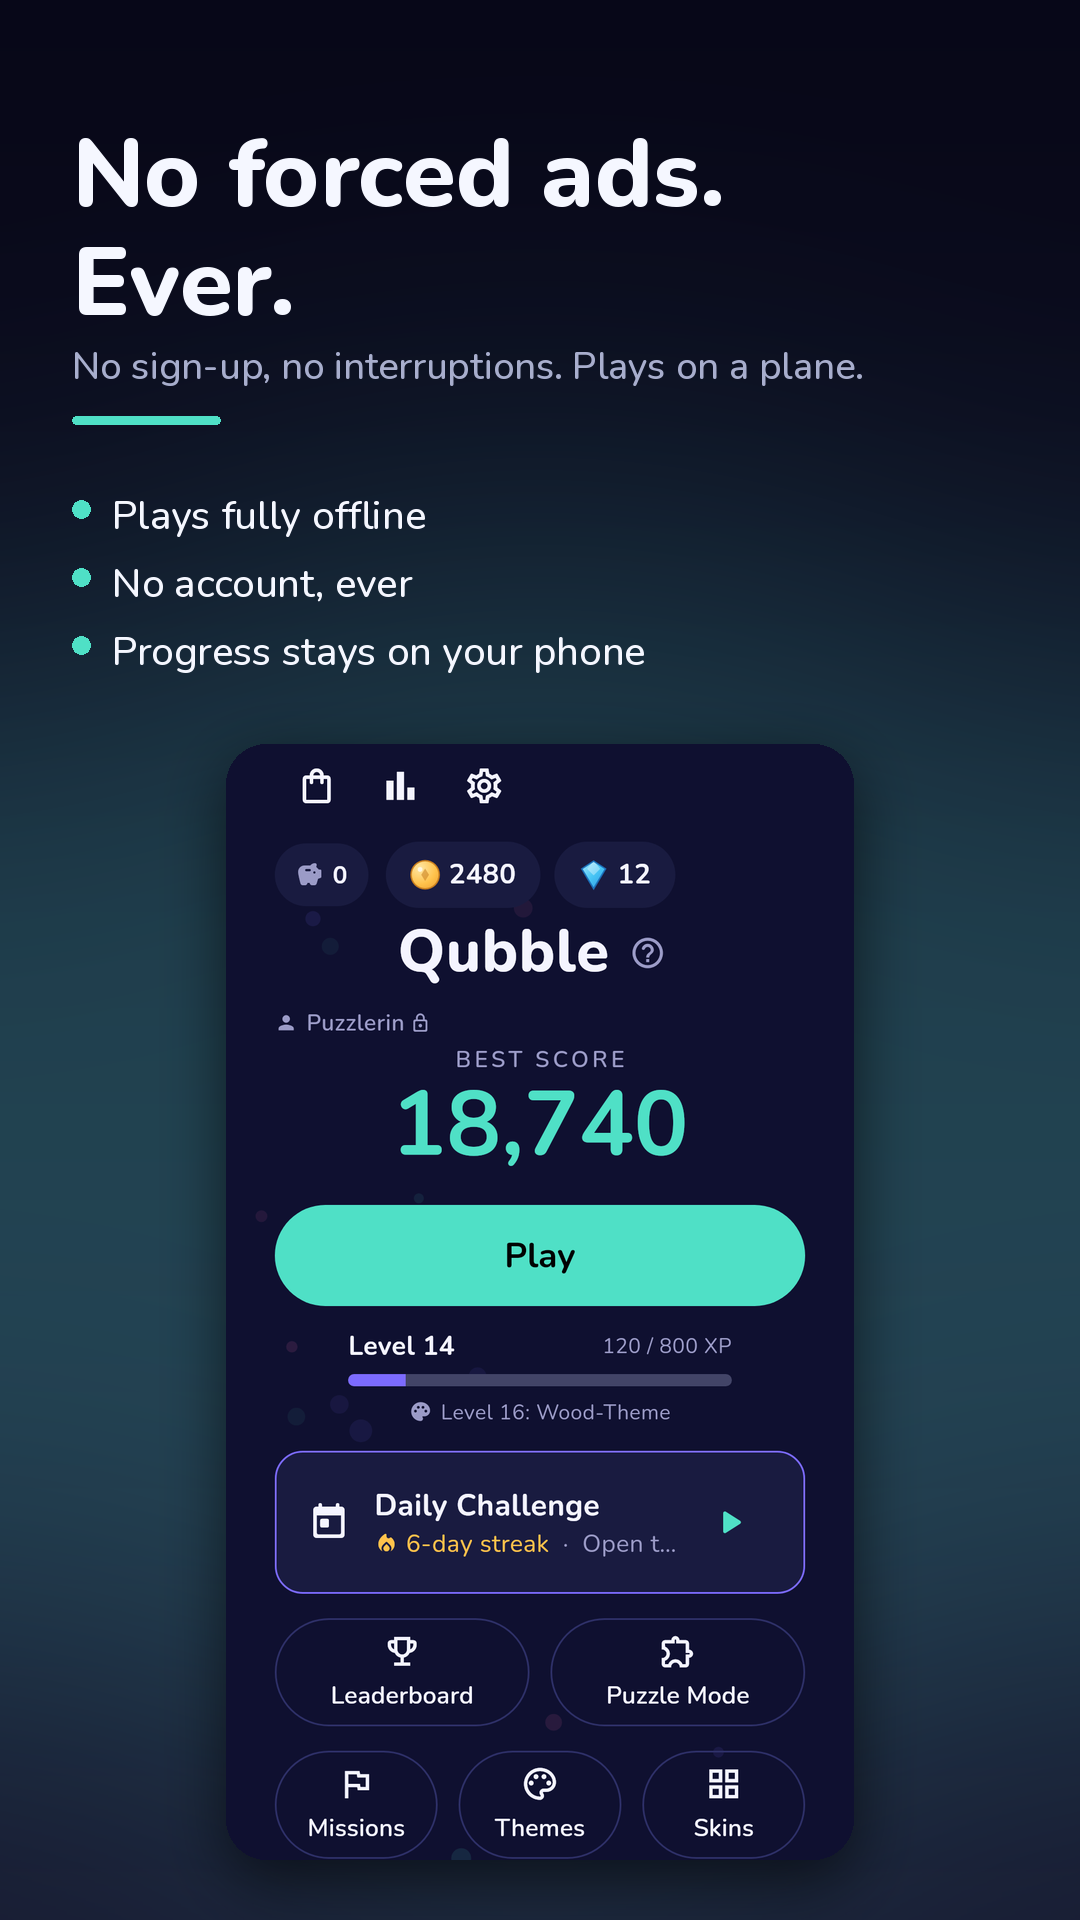
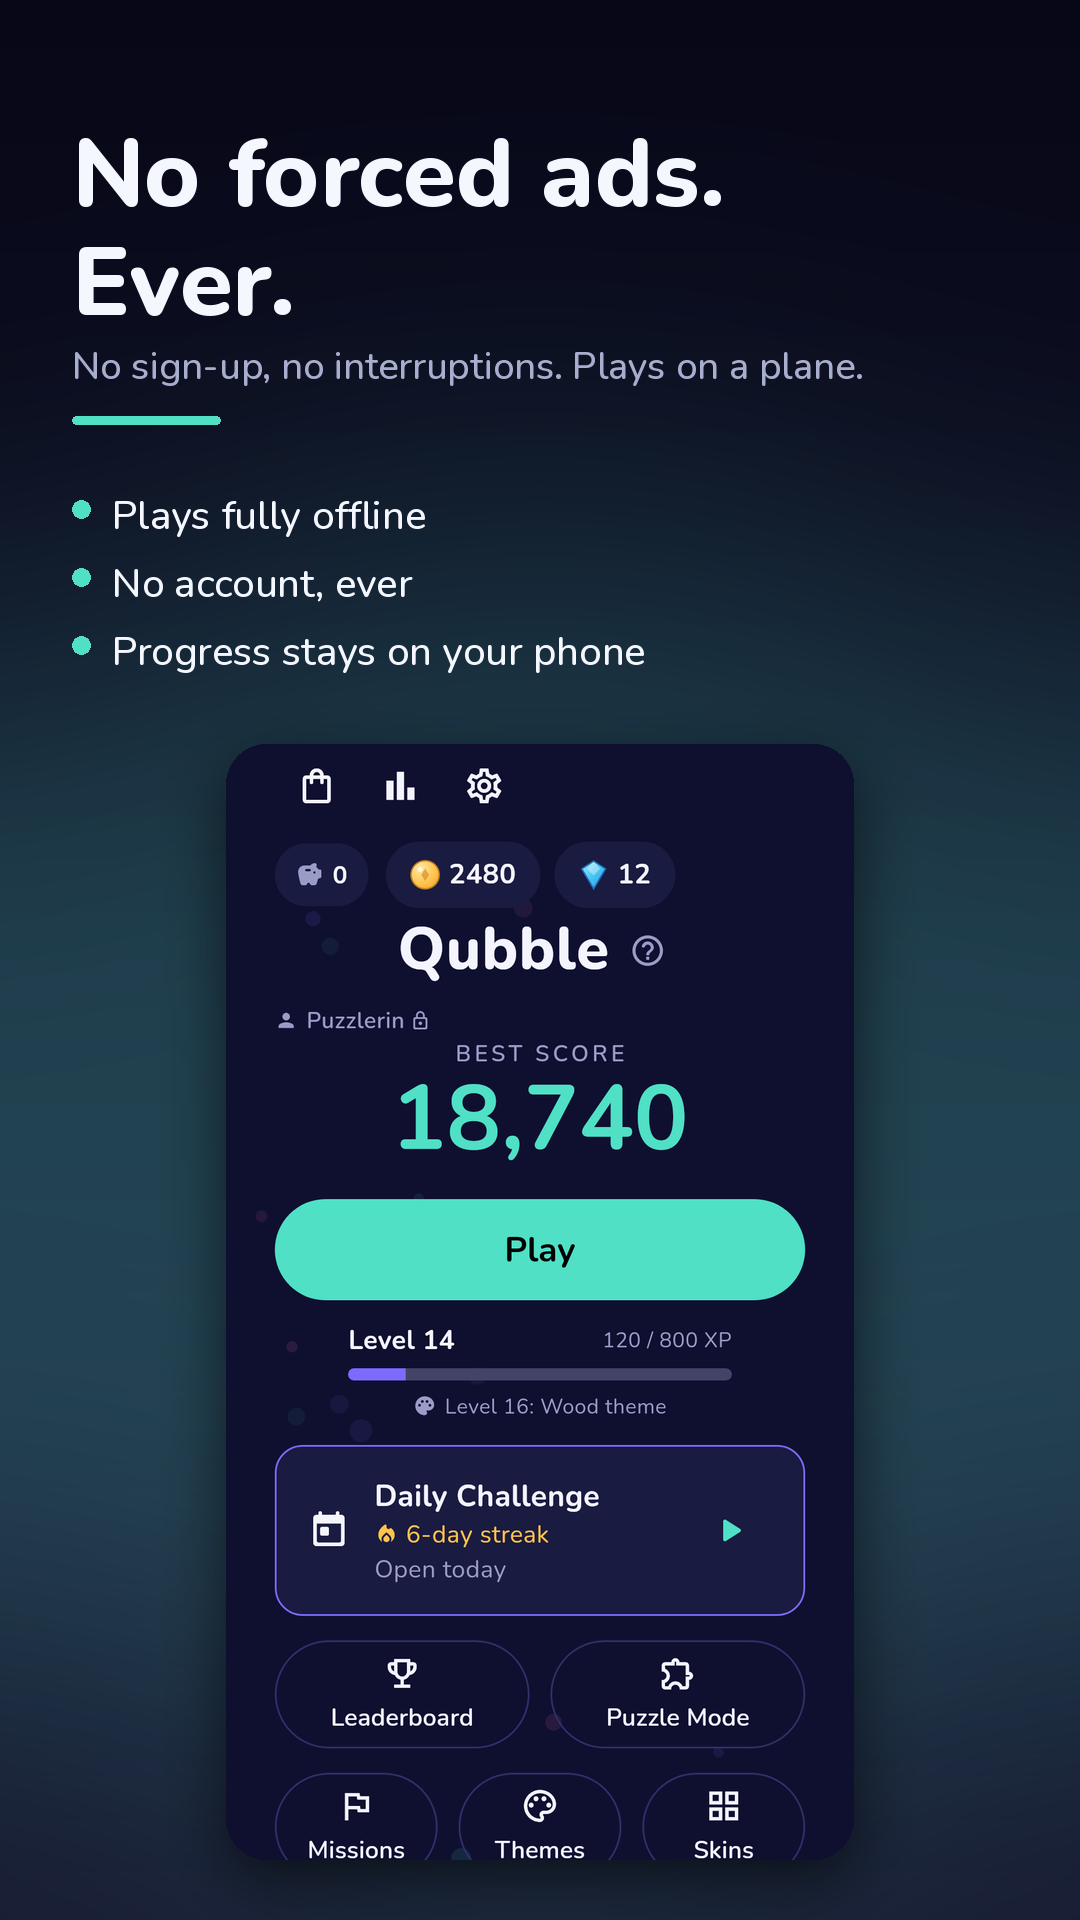
Stop cutting off the daily card's status on small phones
With a running streak, "6-day streak · Open today" did not fit on a 360 dp
phone even in English: the status was ellipsised to "Open t…", and the
countdown MASTERPLAN D.3.3 puts on the card lost its time. The status now
moves to its own line when it has to. Store screenshot 6 (home screen) is
re-rendered for every language; it showed the cut-off text too.

Claude-Session: https://claude.ai/code/session_01JbGaYa1GpKVUEU7QrNHH2K

diff --git a/lib/ui/screens/home_screen.dart b/lib/ui/screens/home_screen.dart
@@ -1130,44 +1130,47 @@ class _DailyCard extends StatelessWidget {
                   // streak — the whole audience for the countdown — never saw
                   // it and read "Daily Challenge · 5 days" as an invitation to
                   // a run that no longer counted.
-                  Row(
+                  //
+                  // A Wrap, not a Row: on a 360 dp phone the two did not fit
+                  // on one line even in English, and the status was the half
+                  // that got cut ("Open t…", "Next daily in 5…"). Now it moves
+                  // to a line of its own instead.
+                  Wrap(
+                    spacing: 12,
+                    crossAxisAlignment: WrapCrossAlignment.center,
                     children: [
-                      if (streak > 0) ...[
-                        const Icon(
-                          AppIcons.streak,
-                          size: 14,
-                          color: GridColors.fever,
+                      if (streak > 0)
+                        Row(
+                          mainAxisSize: MainAxisSize.min,
+                          children: [
+                            const Icon(
+                              AppIcons.streak,
+                              size: 14,
+                              color: GridColors.fever,
+                            ),
+                            const SizedBox(width: 4),
+                            Flexible(
+                              child: Text(
+                                L10n.of(context).homeDailyStreakDays(streak),
+                                style: const TextStyle(
+                                  color: GridColors.fever,
+                                  fontSize: 14,
+                                ),
+                              ),
+                            ),
+                          ],
                         ),
-                        const SizedBox(width: 4),
-                        Text(
-                          L10n.of(context).homeDailyStreakDays(streak),
-                          style: const TextStyle(
-                            color: GridColors.fever,
-                            fontSize: 14,
-                          ),
-                        ),
-                        const Text(
-                          '  ·  ',
-                          style: TextStyle(
-                            color: GridColors.textMuted,
-                            fontSize: 14,
-                          ),
-                        ),
-                      ],
-                      Flexible(
-                        child: Text(
-                          playedToday
-                              ? L10n.of(context).homeDailyNextIn(
-                                  DailyCardFormat.remaining(
-                                    DailyChallenge.untilNextDaily(),
-                                  ),
-                                )
-                              : L10n.of(context).homeDailyOpenToday,
-                          overflow: TextOverflow.ellipsis,
-                          style: const TextStyle(
-                            color: GridColors.textMuted,
-                            fontSize: 14,
-                          ),
+                      Text(
+                        playedToday
+                            ? L10n.of(context).homeDailyNextIn(
+                                DailyCardFormat.remaining(
+                                  DailyChallenge.untilNextDaily(),
+                                ),
+                              )
+                            : L10n.of(context).homeDailyOpenToday,
+                        style: const TextStyle(
+                          color: GridColors.textMuted,
+                          fontSize: 14,
                         ),
                       ),
                     ],

diff --git a/test/widget/daily_countdown_test.dart b/test/widget/daily_countdown_test.dart
@@ -2,6 +2,7 @@
 // to a run whose result no longer counts. It now says when the next one
 // unlocks (MASTERPLAN.md D.3).
 import 'package:flutter/material.dart';
+import 'package:flutter/rendering.dart';
 import 'package:flutter_riverpod/flutter_riverpod.dart';
 import 'package:flutter_test/flutter_test.dart';
 import 'package:gridpop/game/daily.dart';
@@ -18,10 +19,11 @@ import 'package:shared_preferences/shared_preferences.dart';
 Future<void> _pumpHome(
   WidgetTester tester, {
   Map<String, Object> prefs = const {},
+  double width = 420,
 }) async {
   SharedPreferences.setMockInitialValues(prefs);
   final storage = await Storage.create();
-  tester.view.physicalSize = const Size(420, 1400);
+  tester.view.physicalSize = Size(width, 1400);
   tester.view.devicePixelRatio = 1;
   addTearDown(tester.view.reset);
 
@@ -57,9 +59,10 @@ void main() {
   });
 
   testWidgets('a played daily says when the next one unlocks', (tester) async {
-    await _pumpHome(tester, prefs: {
-      'lastDailyDate': DailyChallenge.dateKey(DateTime.now()),
-    });
+    await _pumpHome(
+      tester,
+      prefs: {'lastDailyDate': DailyChallenge.dateKey(DateTime.now())},
+    );
 
     expect(find.text('Open today'), findsNothing);
     expect(find.textContaining('Next daily in'), findsOneWidget);
@@ -68,14 +71,46 @@ void main() {
   testWidgets('yesterday counts as unplayed', (tester) async {
     // The boundary that matters: a player returning the next morning has to
     // be invited back in, not told to wait.
-    await _pumpHome(tester, prefs: {
-      'lastDailyDate': DailyChallenge.dateKey(
-        DateTime.now().subtract(const Duration(days: 1)),
-      ),
-    });
+    await _pumpHome(
+      tester,
+      prefs: {
+        'lastDailyDate': DailyChallenge.dateKey(
+          DateTime.now().subtract(const Duration(days: 1)),
+        ),
+      },
+    );
 
     expect(find.text('Open today'), findsOneWidget);
   });
+
+  // On a 360 dp phone with a running streak, the status shared one line with
+  // the streak and was cut off: "6-day streak · Open t…", and the countdown
+  // lost its time entirely. The status is the half that says whether to tap.
+  for (final (label, playedAgo, status) in [
+    ('the invitation', 1, 'Open today'),
+    ('the countdown', 0, 'Next daily in'),
+  ]) {
+    testWidgets('$label is not cut off next to a streak on a 360 dp phone', (
+      tester,
+    ) async {
+      await _pumpHome(
+        tester,
+        width: 360,
+        prefs: {
+          'streak': 6,
+          'lastDailyDate': DailyChallenge.dateKey(
+            DateTime.now().subtract(Duration(days: playedAgo)),
+          ),
+        },
+      );
+
+      expect(find.text('6-day streak'), findsOneWidget);
+      final paragraph = tester.renderObject<RenderParagraph>(
+        find.textContaining(status),
+      );
+      expect(paragraph.didExceedMaxLines, isFalse);
+    });
+  }
 
   group('formatRemaining', () {
     test('drops the hour once inside the last one', () {
